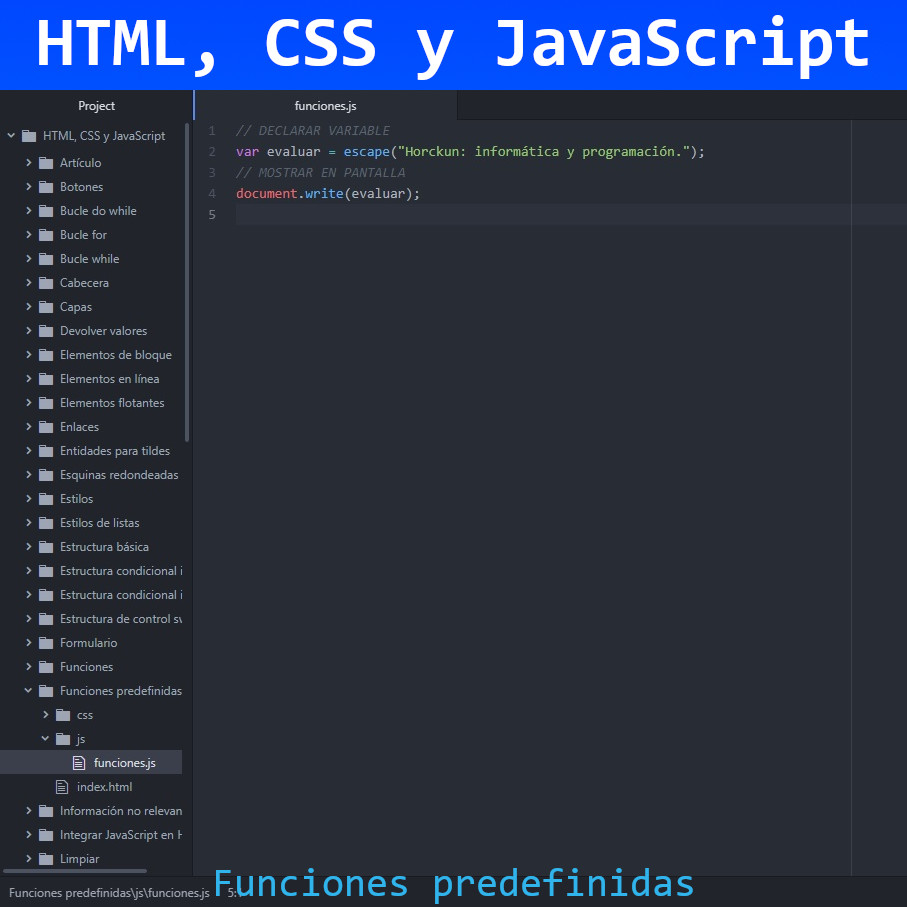
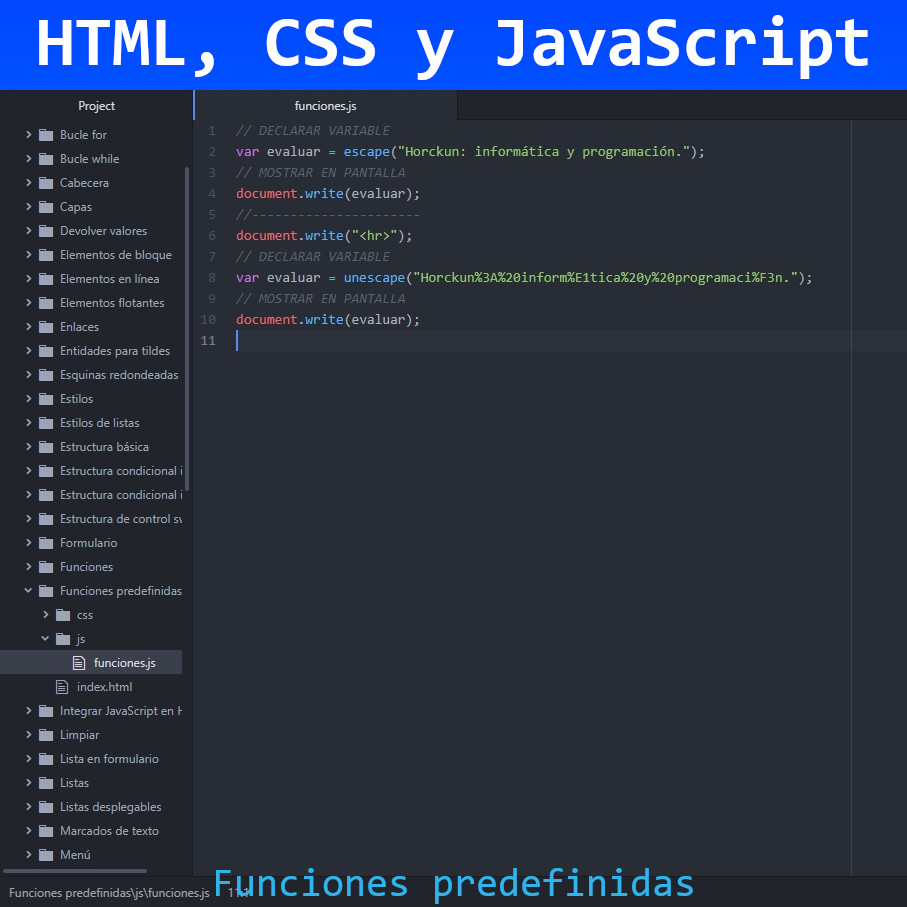
Funciones predefinidas
Funciones predefinidas en JavaScript

diff --git a/HTML, CSS y JavaScript/Funciones predefinidas/js/funciones.js b/HTML, CSS y JavaScript/Funciones predefinidas/js/funciones.js
@@ -2,3 +2,9 @@
 var evaluar = escape("Horckun: informática y programación.");
 // MOSTRAR EN PANTALLA
 document.write(evaluar);
+//----------------------
+document.write("<hr>");
+// DECLARAR VARIABLE
+var evaluar = unescape("Horckun%3A%20inform%E1tica%20y%20programaci%F3n.");
+// MOSTRAR EN PANTALLA
+document.write(evaluar);
